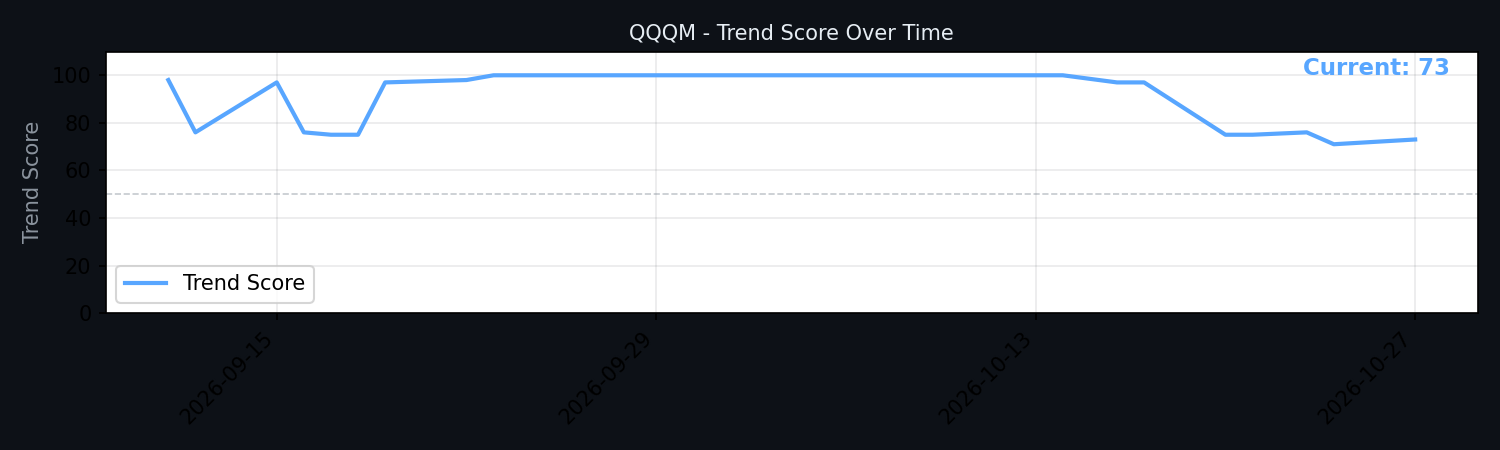
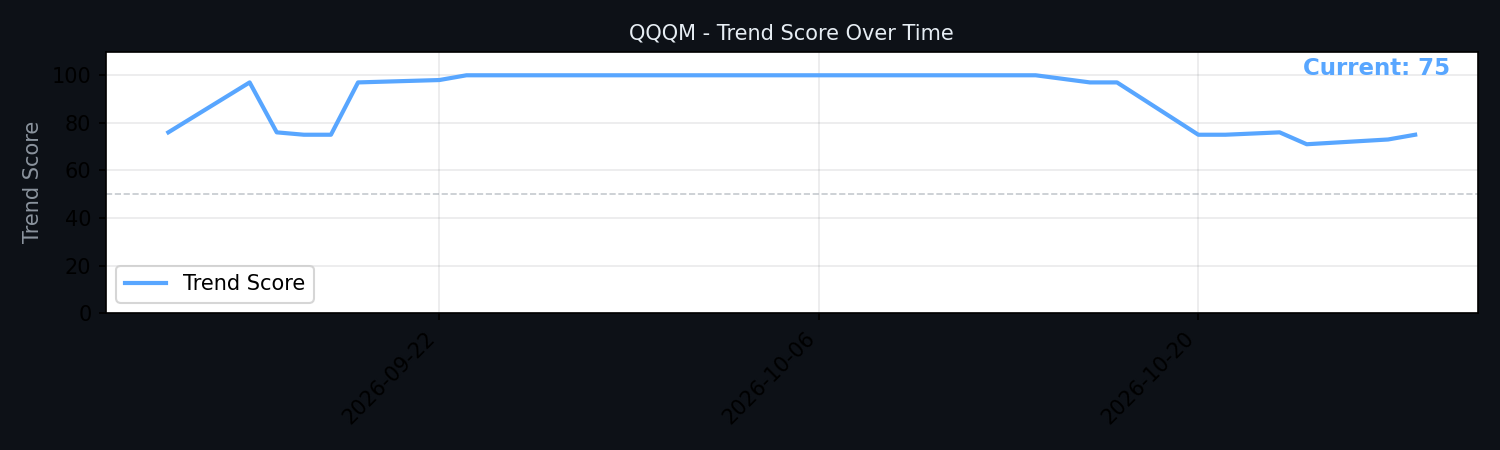
chore: update dashboard snapshot

Changed region(s): [[0.092, 0.1556, 0.3373, 0.3111], [0.6747, 0.1556, 0.9507, 0.3422], [0.9507, 0.1244, 0.9813, 0.1556]]

diff --git a/docs/index.html b/docs/index.html
@@ -62,32 +62,32 @@
 </head>
 <body>
     <h1>📊 Quant Trade Bot</h1>
-    <div class="subtitle">Daily snapshot · 2026-10-27 09:51 (GMT+8)</div>
-
-    <div class="card">
-        <h2>QQQM (Invesco NASDAQ 100 ETF)</h2>
-        <img src="trend_QQQM.png" alt="Trend Score History" style="width:100%; max-width:900px; border-radius:8px; margin-bottom:20px; border:1px solid #30363d;">
-        <div class="row"><span class="label">Latest Close</span><span class="value">$293.26</span></div>
-        <div class="row"><span class="label">Trend Score</span><span class="value">73/100</span></div>
-        <div class="row"><span class="label">Momentum Score</span><span class="value">17/100</span></div>
-        <div class="row"><span class="label">Historical Match</span><span class="value">29 occurrences</span></div>
-        <div class="row"><span class="label">90-day Win Rate</span><span class="value">89.7%</span></div>
-        <div class="row"><span class="label">Suggested Action</span><span class="value"><span class="badge badge-buy">✅ Historically high win rate for this structure. Consider maintaining or slightly increasing your DCA.</span></span></div>
-    </div>
+    <div class="subtitle">Daily snapshot · 2026-10-28 10:02 (GMT+8)</div>
 
     <div class="card">
         <h2>CSPX (iShares Core S&P 500 UCITS ETF)</h2>
         <img src="trend_CSPX.L.png" alt="Trend Score History" style="width:100%; max-width:900px; border-radius:8px; margin-bottom:20px; border:1px solid #30363d;">
-        <div class="row"><span class="label">Latest Close</span><span class="value">$826.43</span></div>
+        <div class="row"><span class="label">Latest Close</span><span class="value">$828.79</span></div>
         <div class="row"><span class="label">Trend Score</span><span class="value">73/100</span></div>
-        <div class="row"><span class="label">Momentum Score</span><span class="value">28/100</span></div>
-        <div class="row"><span class="label">Historical Match</span><span class="value">117 occurrences</span></div>
-        <div class="row"><span class="label">90-day Win Rate</span><span class="value">85.5%</span></div>
+        <div class="row"><span class="label">Momentum Score</span><span class="value">17/100</span></div>
+        <div class="row"><span class="label">Historical Match</span><span class="value">102 occurrences</span></div>
+        <div class="row"><span class="label">90-day Win Rate</span><span class="value">85.3%</span></div>
+        <div class="row"><span class="label">Suggested Action</span><span class="value"><span class="badge badge-buy">✅ Historically high win rate for this structure. Consider maintaining or slightly increasing your DCA.</span></span></div>
+    </div>
+
+    <div class="card">
+        <h2>QQQM (Invesco NASDAQ 100 ETF)</h2>
+        <img src="trend_QQQM.png" alt="Trend Score History" style="width:100%; max-width:900px; border-radius:8px; margin-bottom:20px; border:1px solid #30363d;">
+        <div class="row"><span class="label">Latest Close</span><span class="value">$296.96</span></div>
+        <div class="row"><span class="label">Trend Score</span><span class="value">75/100</span></div>
+        <div class="row"><span class="label">Momentum Score</span><span class="value">30/100</span></div>
+        <div class="row"><span class="label">Historical Match</span><span class="value">37 occurrences</span></div>
+        <div class="row"><span class="label">90-day Win Rate</span><span class="value">100.0%</span></div>
         <div class="row"><span class="label">Suggested Action</span><span class="value"><span class="badge badge-buy">✅ Historically high win rate for this structure. Consider maintaining or slightly increasing your DCA.</span></span></div>
     </div>
 
     <div class="footer">
-        Updated: 2026-10-27 09:51 (GMT+8) · <a href="https://t.me/ETF_Trend_Monitor" target="_blank">Telegram Channel</a> · <a href="https://github.com/kzyxx11/quant_trade_bot" target="_blank">GitHub</a>
+        Updated: 2026-10-28 10:02 (GMT+8) · <a href="https://t.me/ETF_Trend_Monitor" target="_blank">Telegram Channel</a> · <a href="https://github.com/kzyxx11/quant_trade_bot" target="_blank">GitHub</a>
     </div>
 </body>
 </html>
